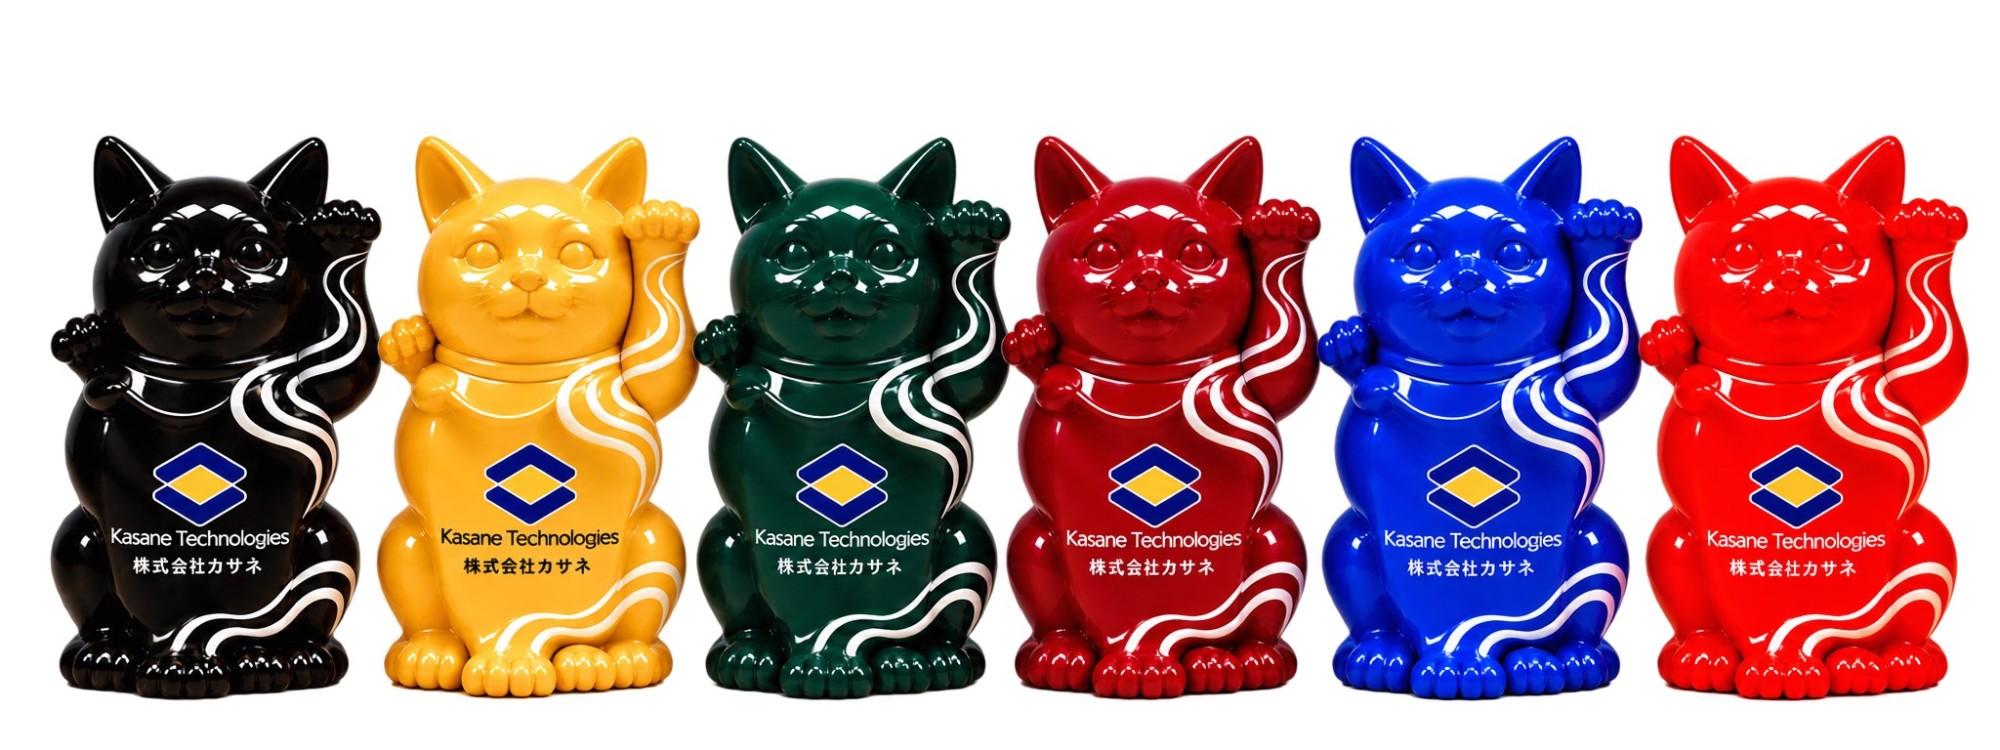
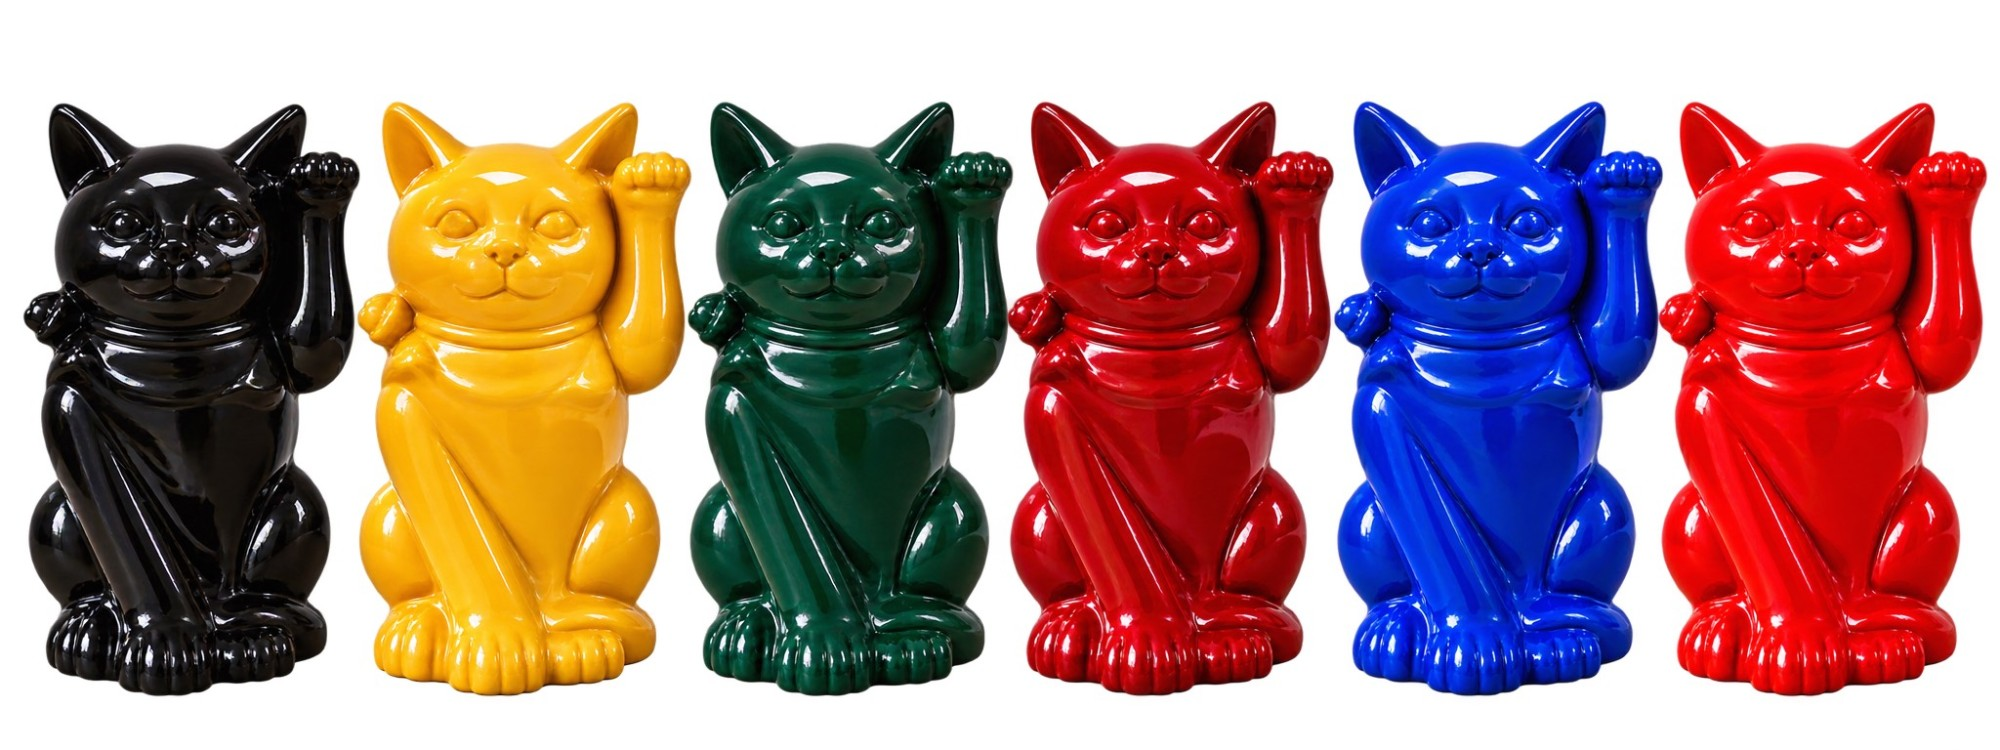
選べる6色の写真をロゴ・文字なしの写真に差し替え

diff --git a/index.html b/index.html
@@ -586,7 +586,7 @@
               loading="lazy"
             />
           </figure>
-          <p class="size-note">※写真はイメージです。ご利用の端末によって、色味は実物と異なる場合がございます。※掲載している企業名・ロゴ・デザインは、サービスイメージを表現するための架空のものです。</p>
+          <p class="size-note">※写真はイメージです。ご利用の端末によって、色味は実物と異なる場合がございます。</p>
         </div>
       </section>
 
